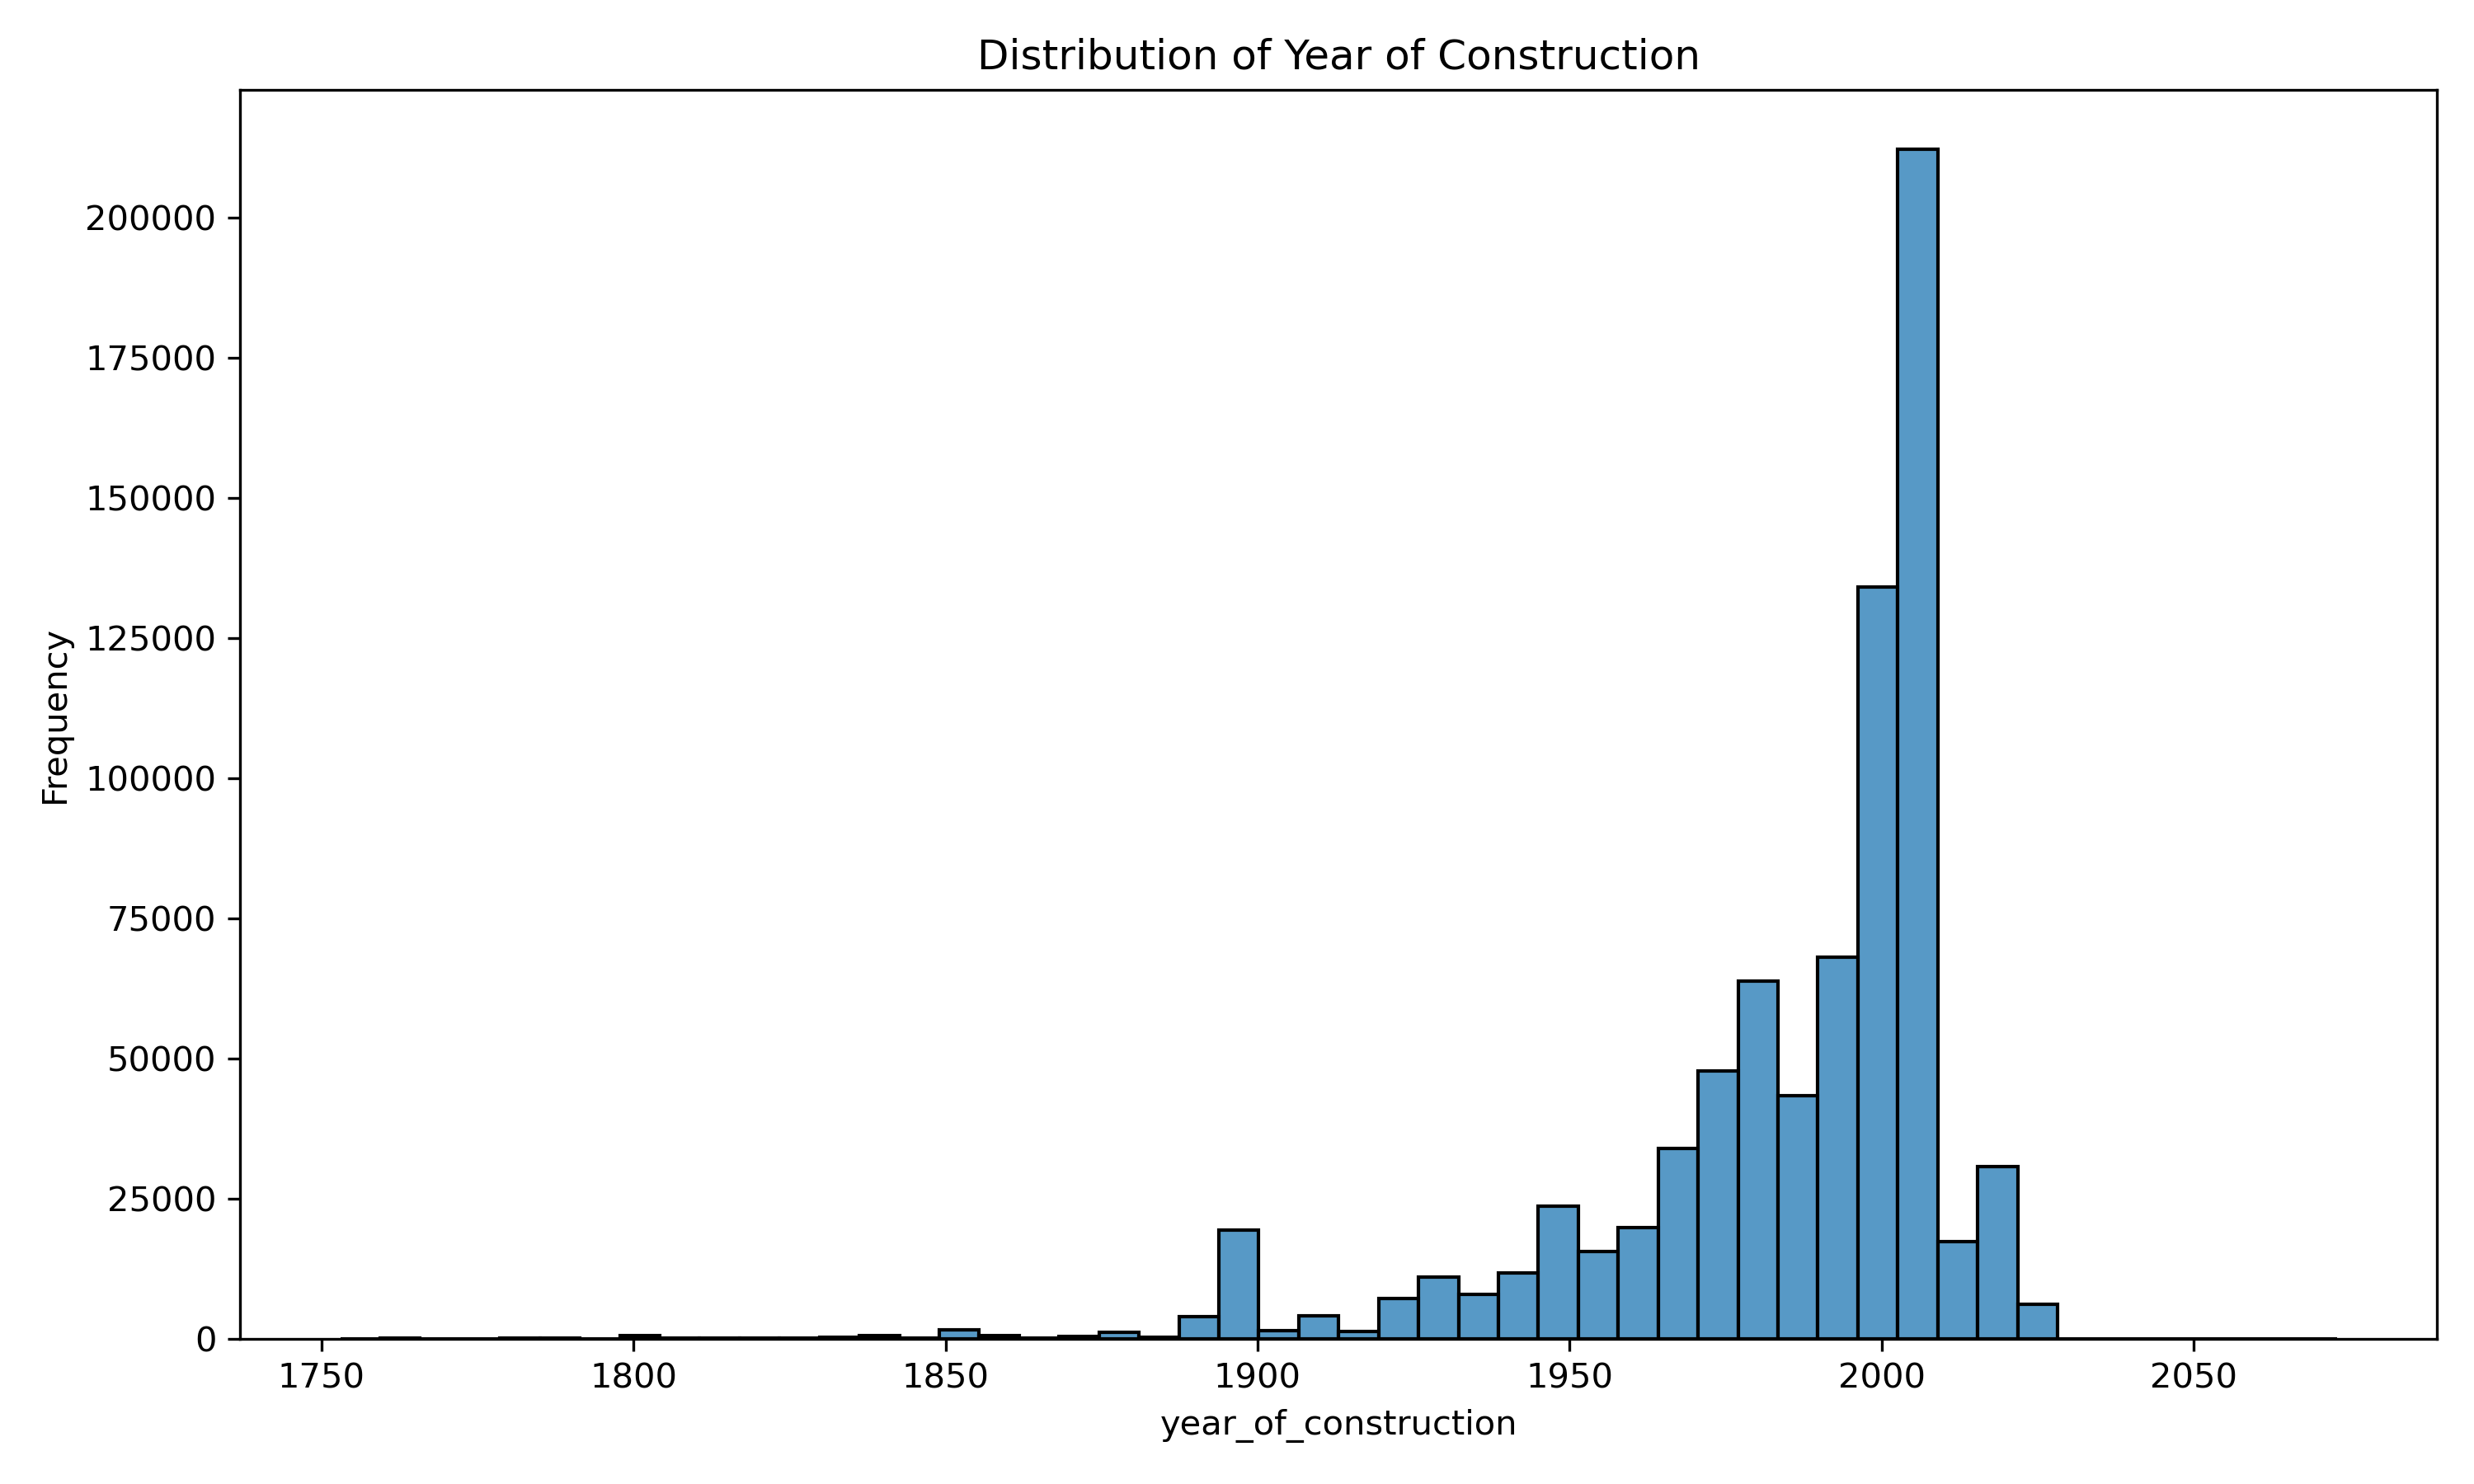
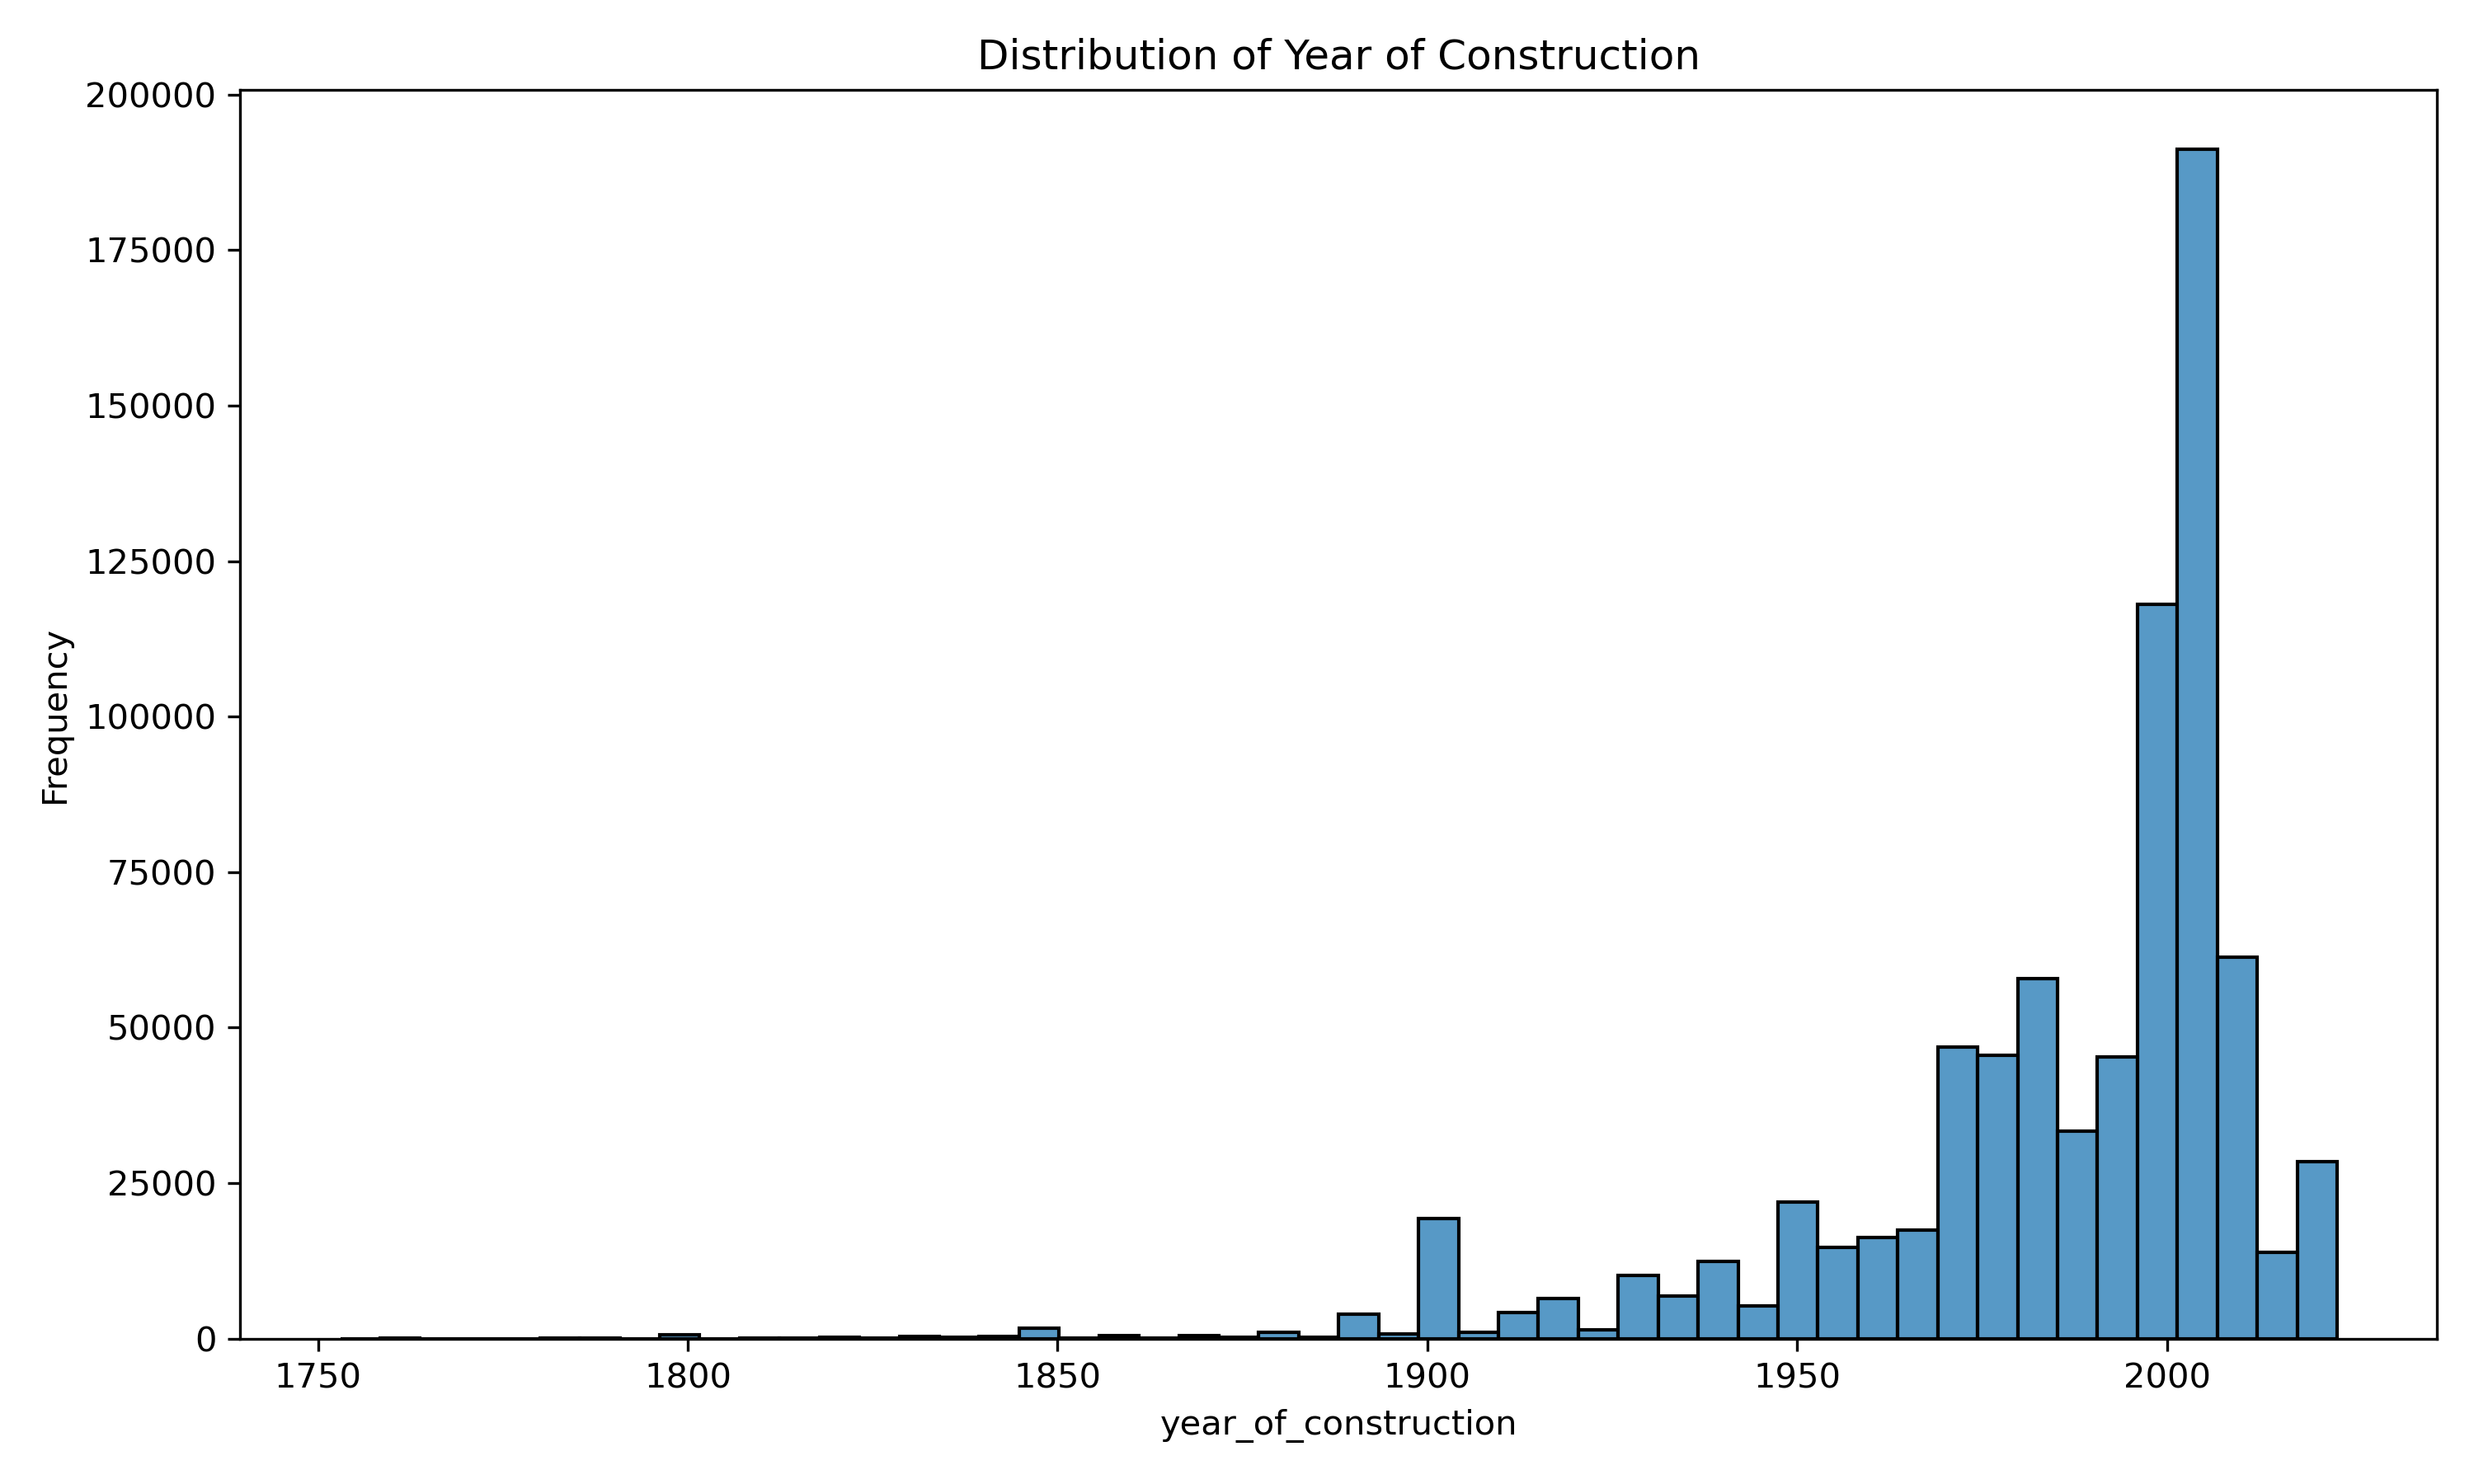
Refine data quality cleaning

diff --git a/src/data_cleaning.py b/src/data_cleaning.py
@@ -150,6 +150,30 @@ def clean_basic_values(df):
         if col in df.columns:
             df[col] = pd.to_numeric(df[col], errors="coerce")
 
+        # Basic data-quality rules
+    if "year_of_construction" in df.columns:
+        invalid_years = (
+            (df["year_of_construction"] < 1700)
+            | (df["year_of_construction"] > 2023)
+        )
+        df.loc[invalid_years, "year_of_construction"] = pd.NA
+        df["building_age"] = 2023 - df["year_of_construction"]
+
+    # Replace impossible non-positive physical measurements with missing values
+    physical_measurement_columns = [
+        "ground_floor_area",
+        "wall_area",
+        "roof_area",
+        "floor_area",
+        "window_area",
+        "door_area",
+        "volume",
+    ]
+
+    for col in physical_measurement_columns:
+        if col in df.columns:
+            df.loc[df[col] <= 0, col] = pd.NA
+
     return df
 
 

diff --git a/src/config.py b/src/config.py
@@ -32,3 +32,7 @@ VALID_RATINGS = NOT_PRIORITY_RATINGS + PRIORITY_RATINGS
 EDA_SUMMARY_FILE = RESULTS_TABLES_DIR / "eda_summary.csv"
 BER_RATING_DISTRIBUTION_FILE = RESULTS_TABLES_DIR / "ber_rating_distribution.csv"
 TARGET_DISTRIBUTION_FILE = RESULTS_TABLES_DIR / "target_distribution.csv"
+
+ASSESSMENT_YEAR = 2023
+MIN_CONSTRUCTION_YEAR = 1700
+MODEL_SAMPLE_SIZE = 100_000